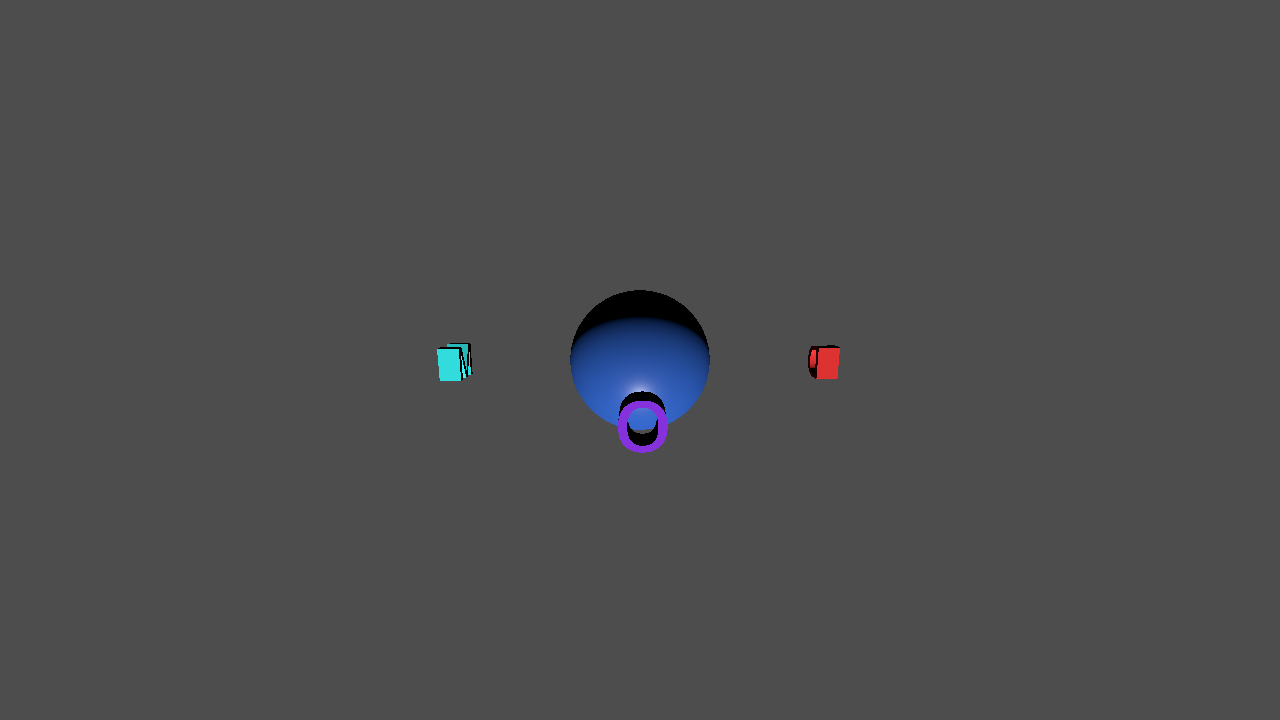
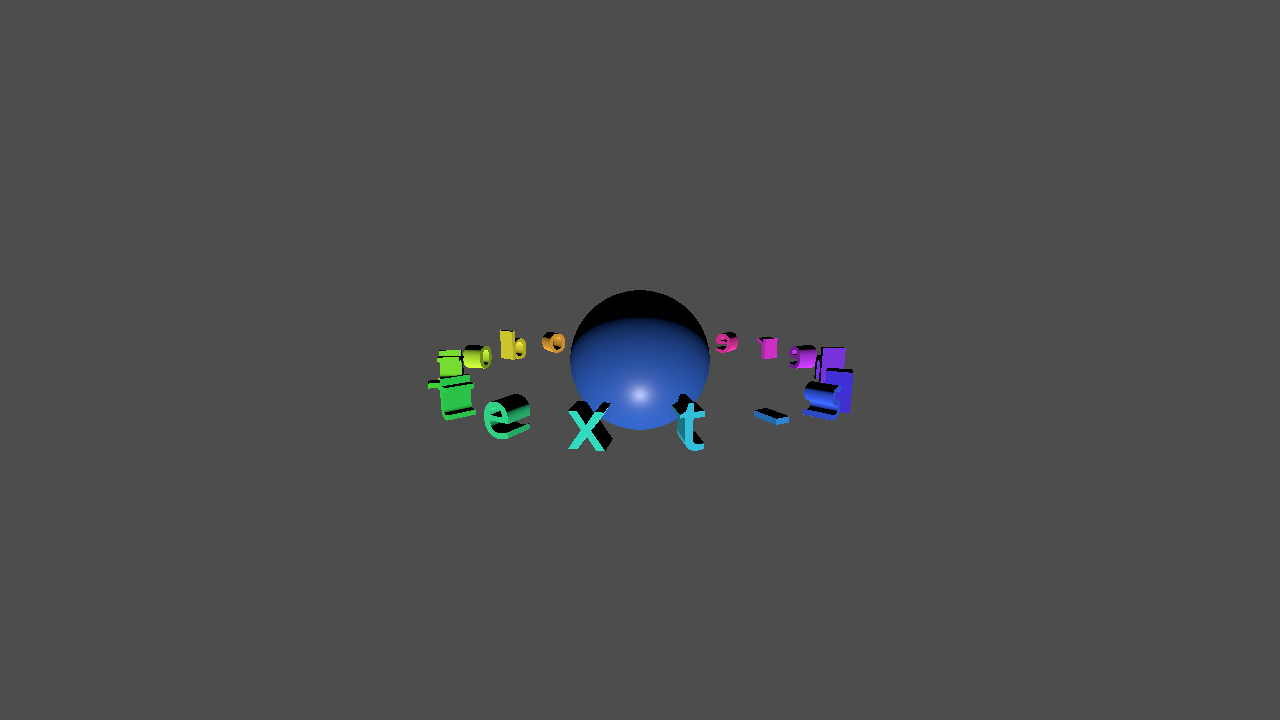
Update demo text to [godot-text-sphere] and add Three.js project link
- Change text_to_extrude from "DEMO" to "[godot-text-sphere]" in Main.gd
- Update demo screenshot to show new rotating text
- Add Related Projects section with link to three-text-sphere repo
- Update cache-busting timestamp on screenshot link

🤖 Generated with [Claude Code](https://claude.com/claude-code)

Changed region(s): [[0.3125, 0.4583, 0.5625, 0.6417], [0.5625, 0.4583, 0.6875, 0.6111]]

diff --git a/README.md b/README.md
@@ -2,7 +2,11 @@
 
 A Godot 4.5 demo that displays 3D extruded text arranged in a rotating circle around a sphere.
 
-![Demo Screenshot](images/demo.png?ts=1765334321331)
+![Demo Screenshot](images/demo.png?ts=1734036349795)
+
+## Related Projects
+
+- [three-text-sphere](https://github.com/softwarewrighter/three-text-sphere) - A similar rotating text sphere demo using Three.js instead of Godot
 
 ## Quick Start
 
